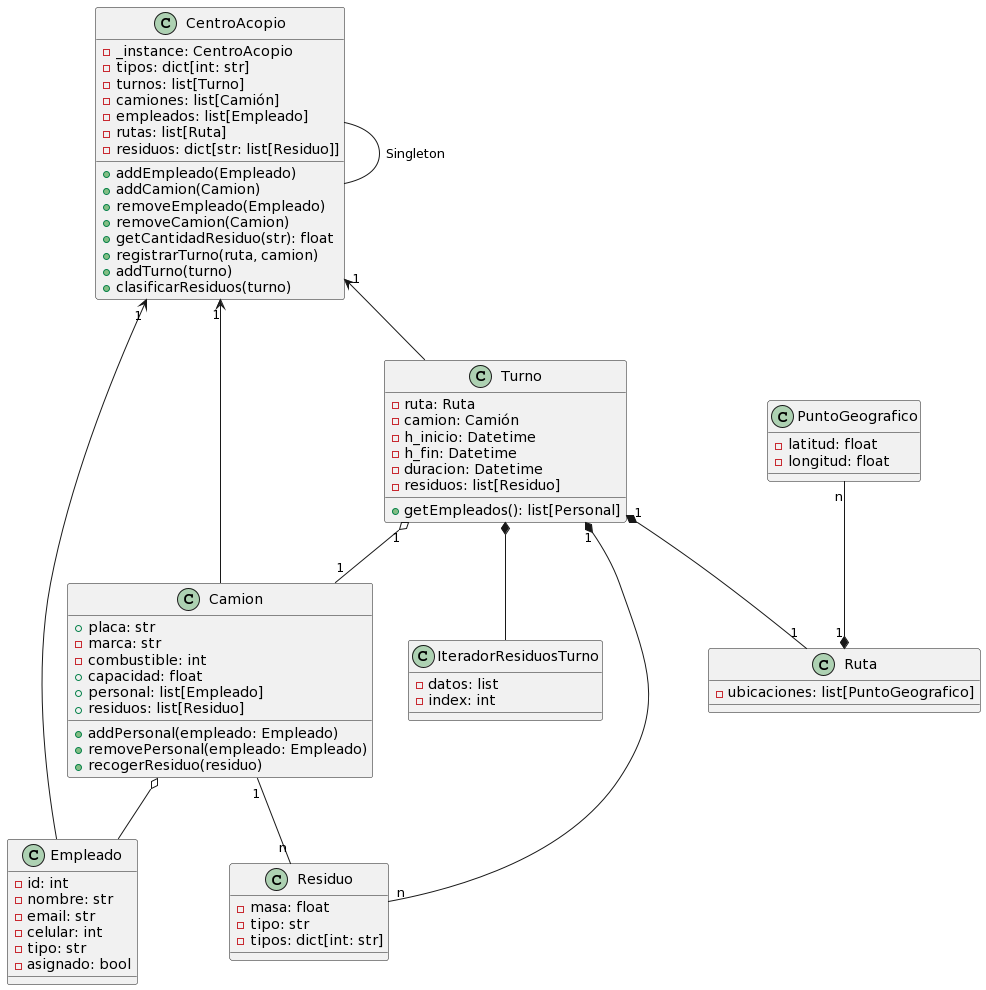
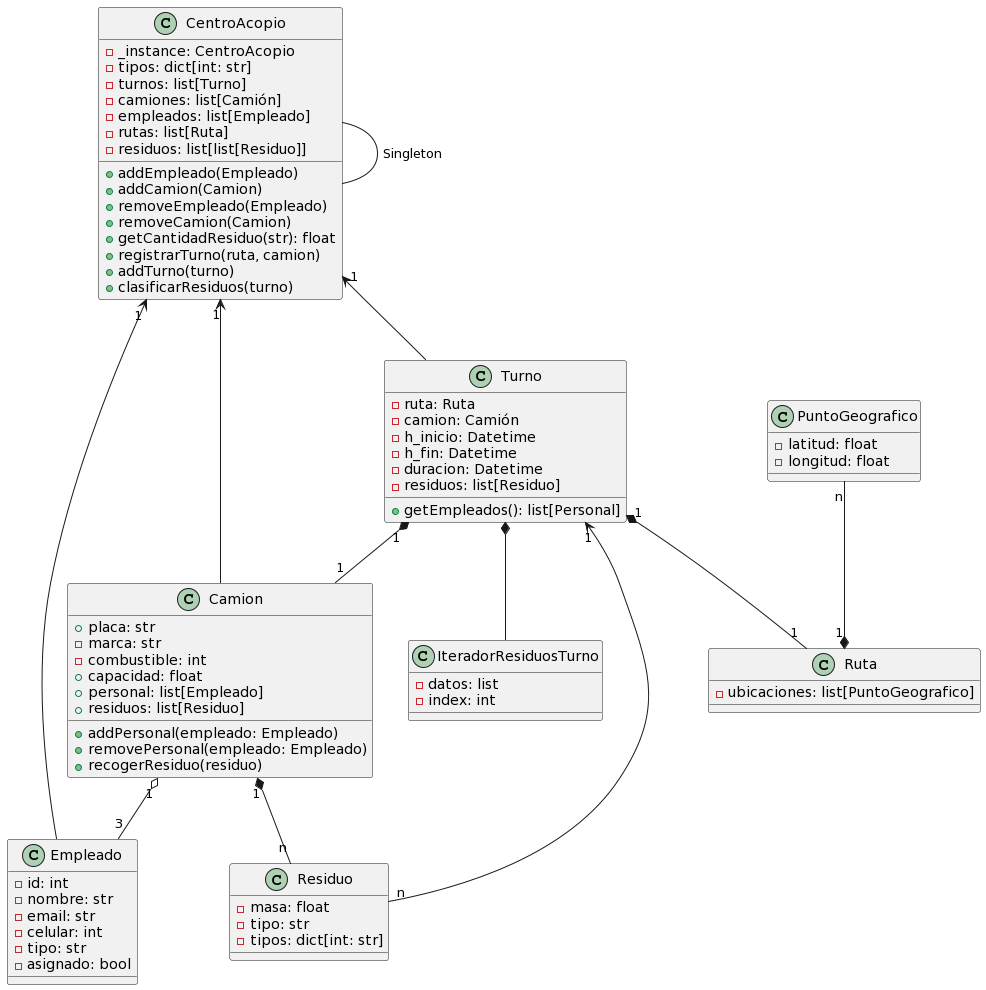
Final version

Changed region(s): [[0.0913, 0.0303, 0.4564, 0.303], [0.3347, 0.2727, 0.3651, 0.303], [0.2434, 0.7879, 0.2738, 0.8182]]

diff --git a/Parcial 2_EfraínRada.py b/Parcial 2_EfraínRada.py
@@ -50,6 +50,7 @@ class CentroAcopio:
   
     _instance = None
     tipos = {1: 'vidrio', 2: 'papel', 3: 'plástico', 4: 'metal', 5: 'residuos orgánicos', 6: 'otro'}
+    inv_tipos = {v: k for k, v in tipos.items()}
 
     def __new__(cls):  # Implementación de patrón Singleton 
         if not cls._instance:
@@ -57,13 +58,11 @@ class CentroAcopio:
         return cls._instance
 
     def __init__(self):
-        tipos = CentroAcopio.tipos    
         self.turnos: list[Turno] = []
         self.camiones: list[Camion] = []
         self.empleados: list[Empleado] = []
         self.rutas: list[Ruta] = []
-        self.residuos: dict[str: list[Residuo]] = {tipos[1]: [], tipos[2]: [], tipos[3]: [],
-                                                  tipos[4]: [], tipos[5]: [], tipos[6]: []}
+        self.residuos: list[list[Residuo]] = [[],[],[],[],[],[]]
 
     def addEmpleado(self, empleado):
         self.empleados.append(empleado)
@@ -86,8 +85,9 @@ class CentroAcopio:
   
     def getCantidadResiduo(self, tipo: str, fecha=None) -> float:
         # Calcula la masa total del residuo de cualquier tipo
+        inv_tipos = CentroAcopio.inv_tipos
         m_total = 0
-        for r in self.residuos[tipo]:
+        for r in self.residuos[inv_tipos[tipo]]:
             m_total += r.masa
         return m_total
         # (f'Masa total del residuo {tipo} del día {fecha}: {m_total}')
@@ -100,13 +100,14 @@ class CentroAcopio:
         else:
             raise TypeError('No es posible instanciar un turno con objetos diferentes de Ruta y Camión.')
 
-    def addTurno(self, turno):
+    def addTurno(self, turno: Turno):
         self.turnos.append(turno)
         self.clasificarResiduos(turno)
 
     def clasificarResiduos(self, turno):
+        inv_tipos = CentroAcopio.inv_tipos
         for r in turno:
-            self.residuos[r.tipo].append(r) 
+            self.residuos[inv_tipos[r.tipo]].append(r) 
 
 
 
@@ -246,19 +247,6 @@ class PruebasUnitarias(unittest.TestCase):
         centro_acopio.removeCamion(camion)
         self.assertEqual(len(centro_acopio.camiones), 0)
         # El propósito de esta prueba es verificar la eliminación de información del camión en el centro de acopio
-
-    def test_getCantidadResiduo(self):
-        centro_acopio = CentroAcopio()
-        ruta = Ruta([PuntoGeografico(0, 0), PuntoGeografico(1, 1)])
-        camion = Camion("ABC123", "Marca", 100, 1000)
-        camion.recogerResiduo(Residuo(30, 1))
-        print(camion.residuos)
-        centro_acopio.registrarTurno(ruta, camion)
-        print(centro_acopio.residuos)
-        cantidad_residuo = centro_acopio.getCantidadResiduo('vidrio')
-        self.assertEqual(cantidad_residuo, 30)
-        # El propósito de esta prueba es verificar la fiabilidad del método de obtención de las cantidades por recurso
-
           
 
 """ Esta sección del código es la implementación de las clases anteriores. Todo se realiza sin input del usuario.
@@ -285,7 +273,7 @@ if __name__ == "__main__":
     rutas_list = [ruta1, ruta2, ruta3]
     rtp = {1: 'vidrio', 2: 'papel', 3: 'plástico', 4: 'metal', 5: 'residuos orgánicos', 6: 'otro'}
     trc = CentroAcopio()
-    trc.rutas.append(ruta1, ruta2, ruta3)
+    trc.rutas.extend([ruta1, ruta2, ruta3])
 
     trc.addEmpleado(Empleado(12345678, 'Efraín Rada', 'eradaa@uninorte.edu.co', '3128267589', 'Conductor'))
     trc.addEmpleado(Empleado(98765432, 'Carlos Sánchez', '', '3104567890', 'Conductor'))
@@ -326,8 +314,6 @@ if __name__ == "__main__":
         cm2.recogerResiduo(Residuo(20 + 10 * rnd.random(), 1))
         cm2.recogerResiduo(Residuo(30 + 10 * rnd.random(), rnd.randint(1,6)))
         horas.append(trc.registrarTurno(ruta, cm2).strftime('%d/%m/%Y %H:%M'))  
-
-    print(horas)  
 
     unittest.main()
     
